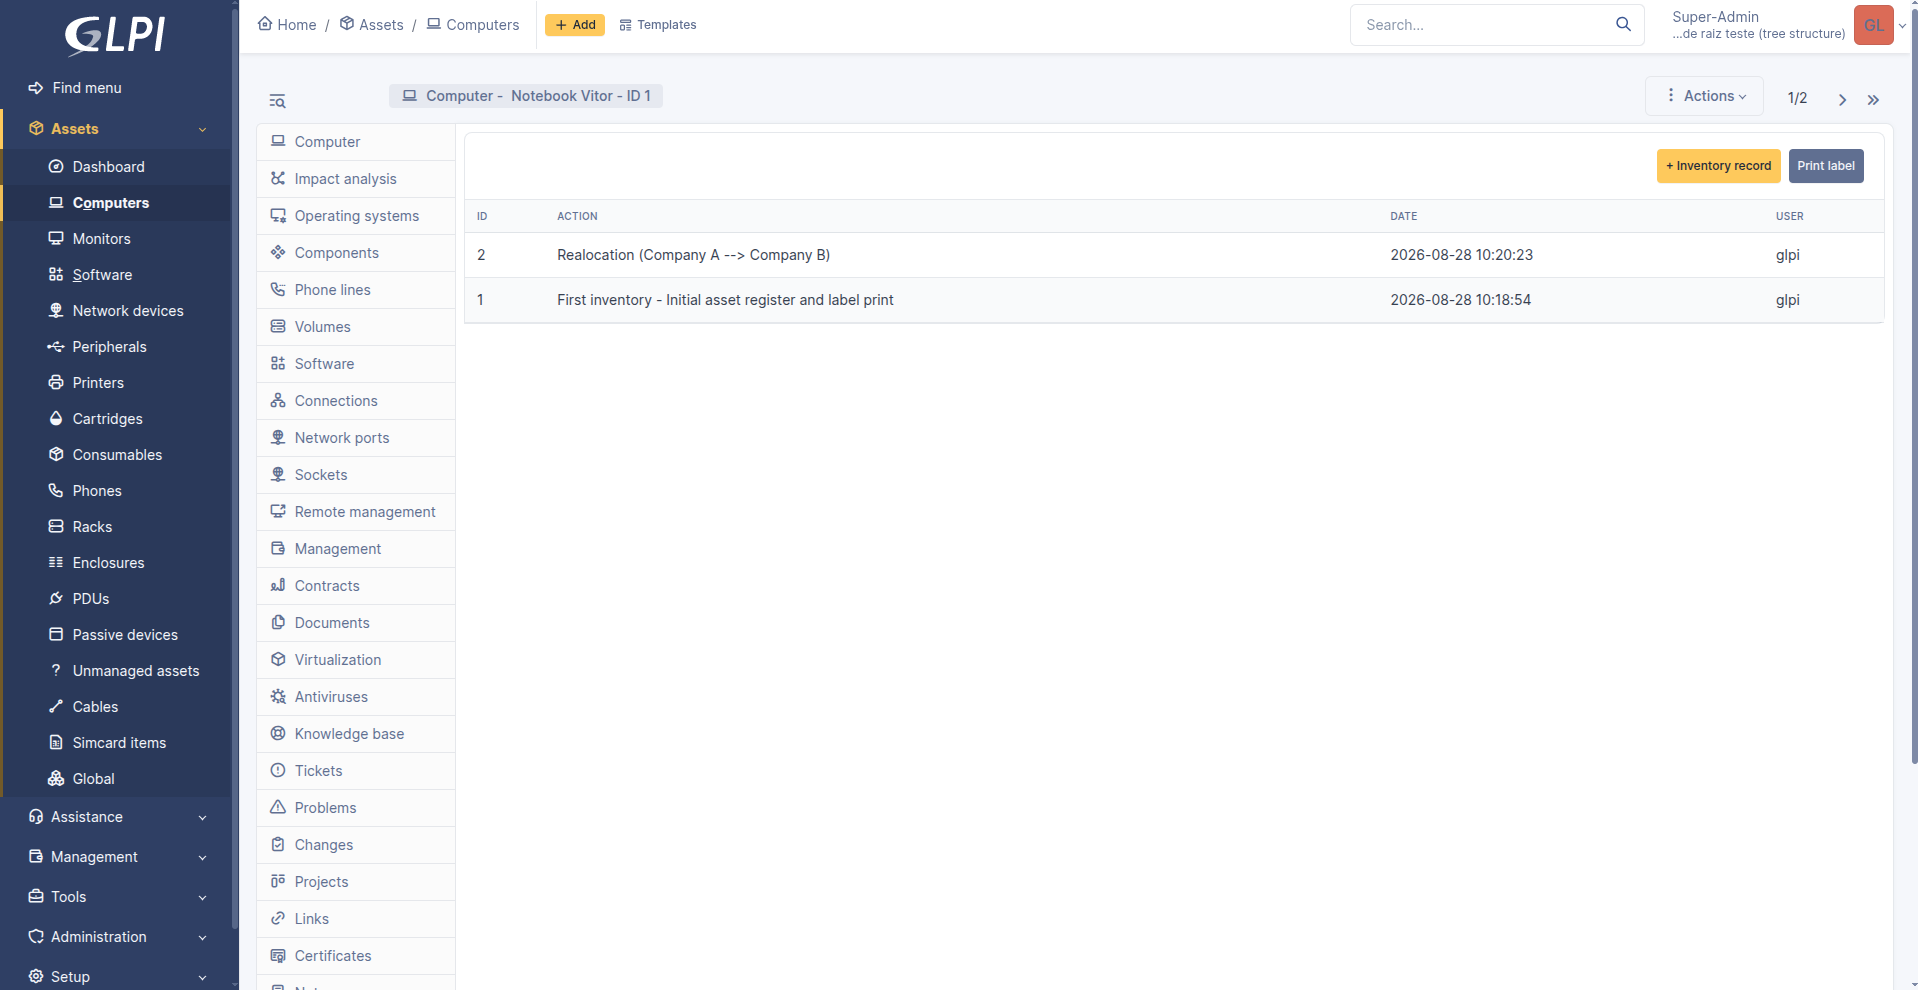
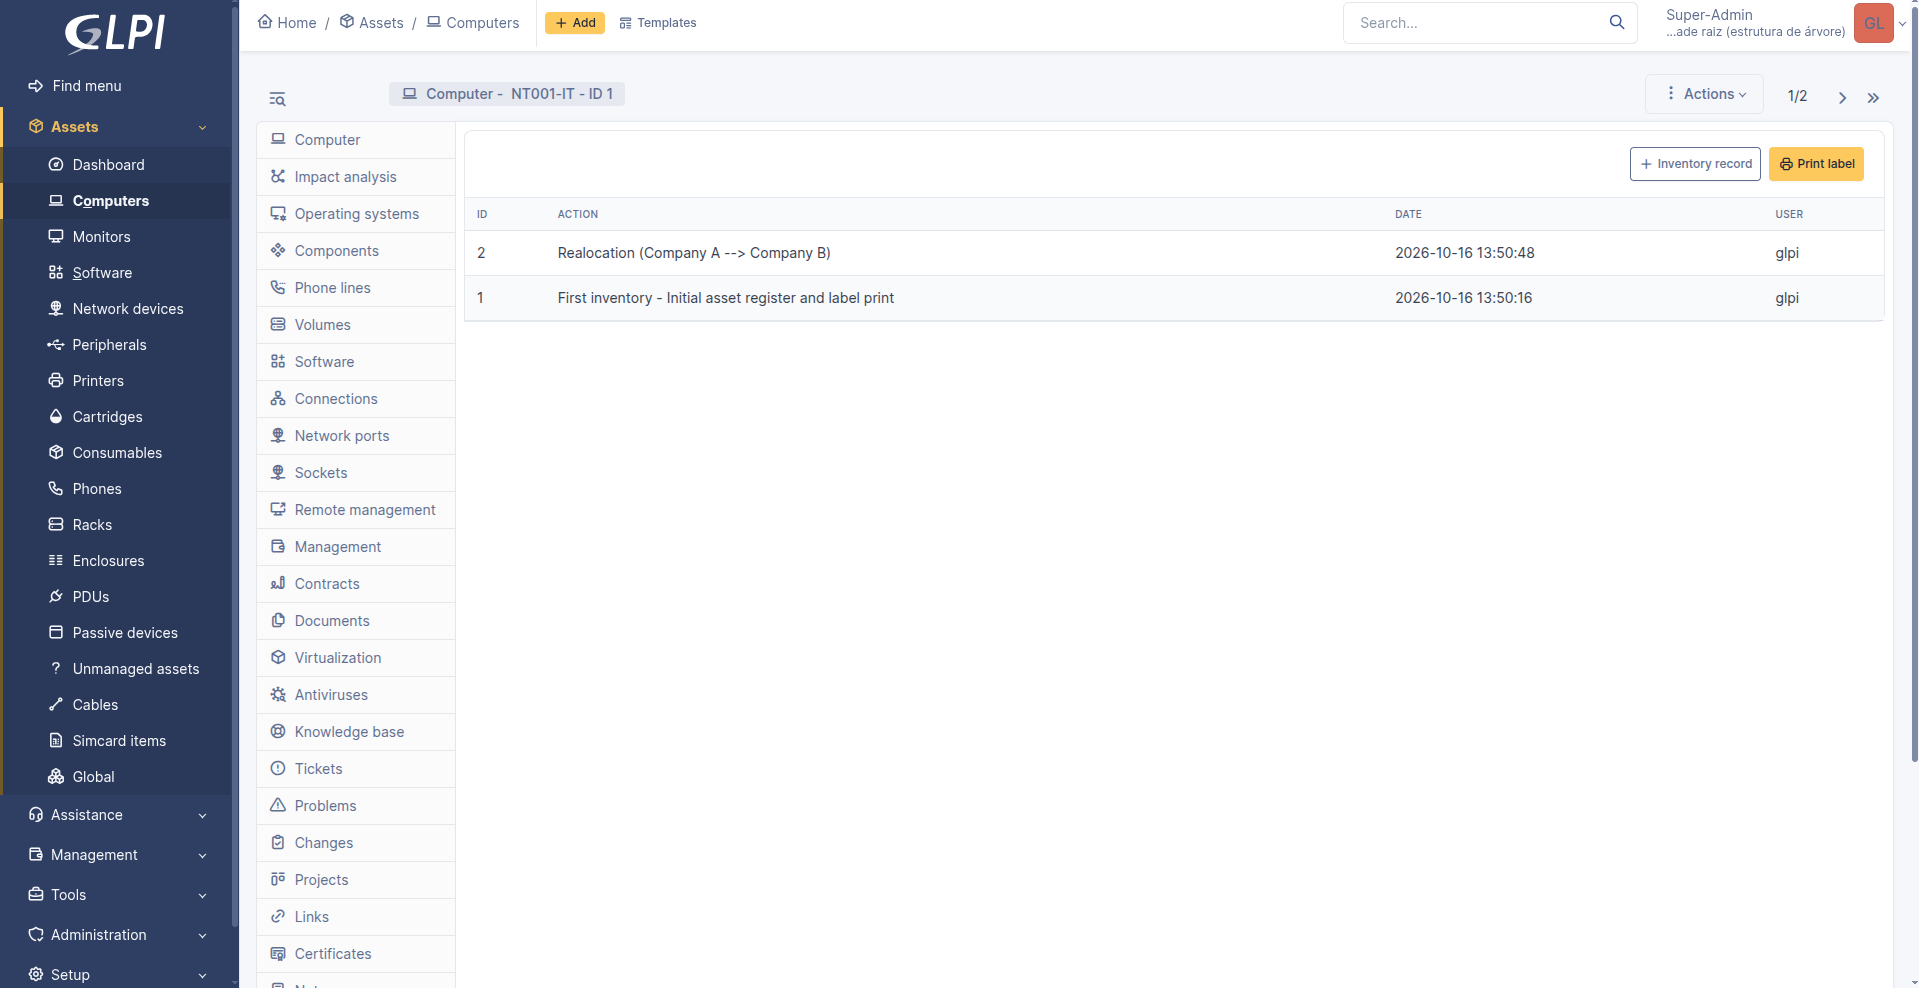
Updating docs

diff --git a/CHANGELOG.md b/CHANGELOG.md
@@ -1,0 +1,79 @@
+# Changelog
+
+All notable changes to this project will be documented in this file.
+
+The format is based on [Keep a Changelog](https://keepachangelog.com/en/1.1.0/),
+and this project adheres to [Semantic Versioning](https://semver.org/spec/v2.0.0.html).
+
+## [Unreleased]
+
+## [1.0.0] - 2026-10-16
+
+### Added
+
+- Added a dedicated dashboard with inventory statistics, including total inventories, daily activity, inventoried assets, and the latest inventory.
+- Added interactive charts for inventory trends over time, distribution by asset type, and inventory activity by user.
+- Added a latest inventories table displaying asset details, comments, users, and creation dates.
+
+### Changed
+
+- Reviewed and refactored the plugin structure to improve code quality, maintainability, and adherence to GLPI 11 plugin development best practices.
+- Updated code and configuration to comply with automated checks and static analysis enforced by GitHub Actions.
+- Improved type safety and error handling across plugin classes.
+
+### Fixed
+
+- Fixed static analysis issues identified by PHPStan.
+- Fixed code style and formatting issues detected by automated quality checks.
+- Improved handling of database values and printer communication errors.
+
+## [0.4.0] - 2026-09-11
+
+### Added
+
+- Added French translations for France (`fr_FR`), Canada (`fr_CA`), and Belgium (`fr_BE`).
+- Added a dedicated permissions tab to GLPI profiles, allowing administrators to manage DelaInventory access.
+- Added `READ` and `UPDATE` permissions for DelaInventory, with `UPDATE` controlling inventory records and label printing.
+
+### Changed
+
+- Refactored the plugin structure to better follow GLPI plugin development best practices.
+- Renamed and reorganized plugin classes to improve separation of responsibilities and maintainability.
+- Separated frontend rendering files from form request handlers.
+- Reorganized the `src/` classes, moving functionality previously concentrated in `Config.php` into dedicated classes.
+- Added database migration support for upgrading from version 0.3.0, preserving existing configuration and log data.
+
+### Fixed
+
+- Fixed the printer connection test token expiration issue that caused subsequent requests to fail.
+- Fixed unauthorized access to plugin configuration and inventory operations.
+- Fixed unauthorized access to assets belonging to entities the current user cannot access.
+- Fixed the ability to trigger label printing without the required plugin permissions.
+
+## [0.3.0] - 2026-08-31
+
+### Added
+
+- Printer connection test through the plugin configuration interface, allowing users to verify connectivity to the configured Zebra printer.
+- ZPL label preview through Labelary, providing a quick way to preview the generated label before printing.
+- Internationalization (i18n) structure using `.po` and `.mo` translation files.
+- Added Portuguese translations for Brazil (`pt_BR`) and Portugal (`pt_PT`).
+- Added English translations for the United States (`en_US`) and United Kingdom (`en_GB`).
+
+## [0.2.0] - 2026-08-06
+
+### Added
+
+- Zebra printer network configuration through IP address and TCP port inputs.
+- Custom ZPL template configuration through the plugin interface.
+- Dynamic asset variable/tag system for generating customizable labels.
+
+## [0.1.0] - 2026-07-22
+
+### Added
+
+- Initial public beta release.
+- Inventory audit and traceability.
+- Zebra label printing.
+- Plugin configuration interface.
+- Compatibility with GLPI 11.0.x.

diff --git a/README.md b/README.md
@@ -15,6 +15,7 @@ The plugin adds a dedicated tab to GLPI assets, allowing users to register inven
 - Customizable ZPL labels with dynamic asset variables and QR Codes.
 - Direct ZPL printing to Zebra printers over TCP/IP.
 - Printer connection testing and ZPL preview through Labelary.
+- Interactive dashboards with inventory statistics, trends, and activity history.
 
 > **Supported assets:** Computers, Monitors, Printers, and Phones.
 
@@ -59,6 +60,24 @@ Users can define their own ZPL templates and use the available asset variables t
 6. The label is printed automatically.
 
 ![Log Page](docs/screenshots/preview3.png)
+
+### Dashboards and Reports
+
+DelaInventory provides a dedicated dashboard to help administrators monitor inventory activity and review inventory records.
+
+The dashboard includes:
+
+- Inventory statistics: Total inventories, inventories performed today, inventoried assets, and the latest inventory.
+- Inventory trends: A time-based chart showing inventory activity over time.
+- Asset type distribution: A chart displaying inventories grouped by GLPI asset type.
+- User activity: A chart showing inventory records grouped by user.
+- Latest inventories: A table with the asset, type, comment, user, and date of each recent inventory record.
+
+These visualizations provide a quick overview of inventory activity and help administrators track recent operations and identify inventory patterns.
+
+![Dashboard Page](docs/screenshots/preview4.png)
+
+![Dashboard Page](docs/screenshots/preview5.png)
 
 ## 🚀 Installation
 
